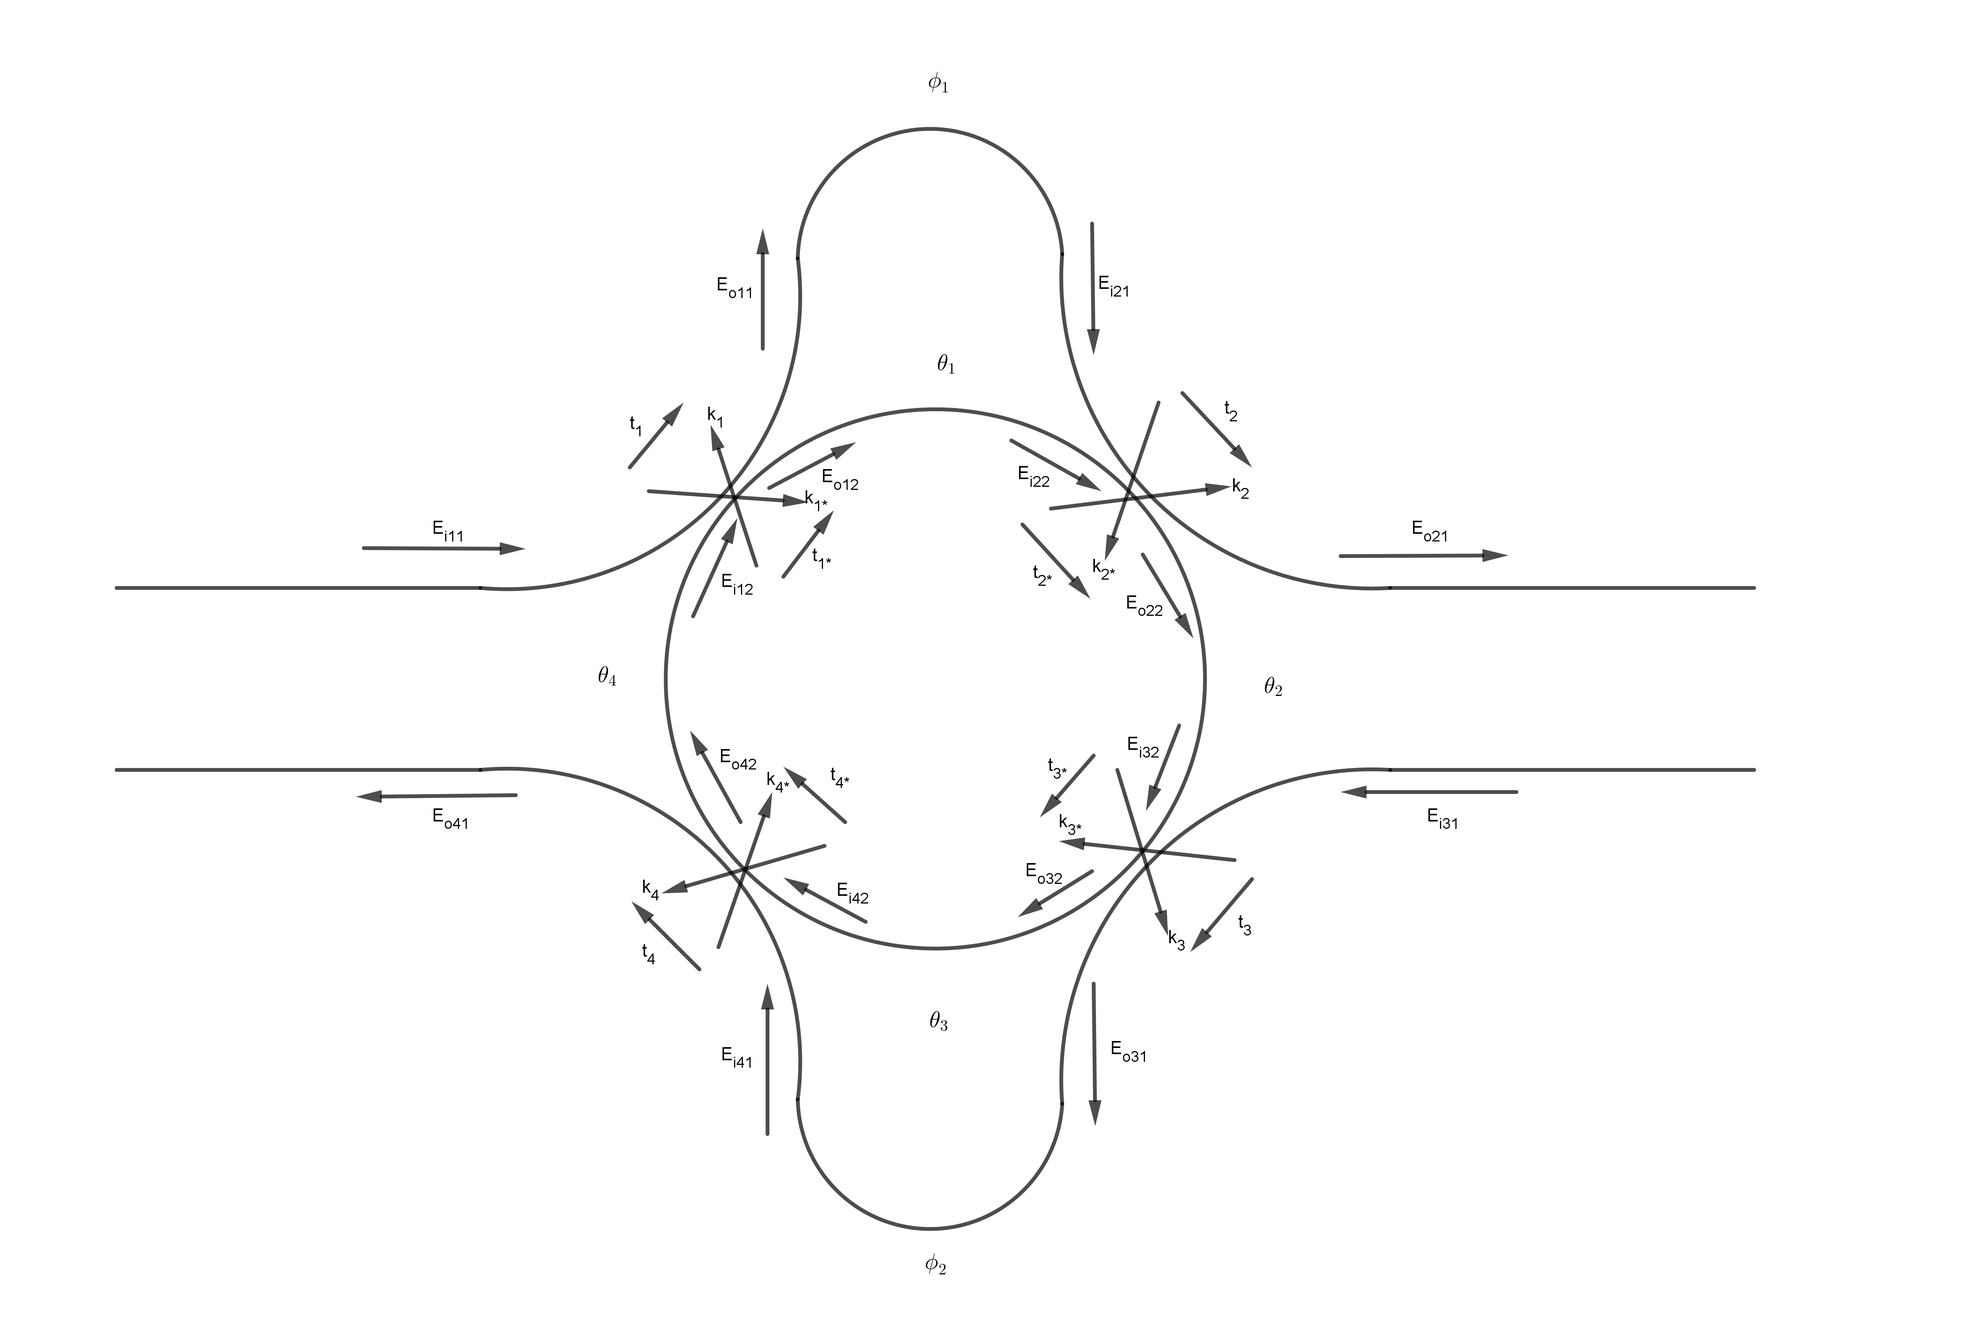
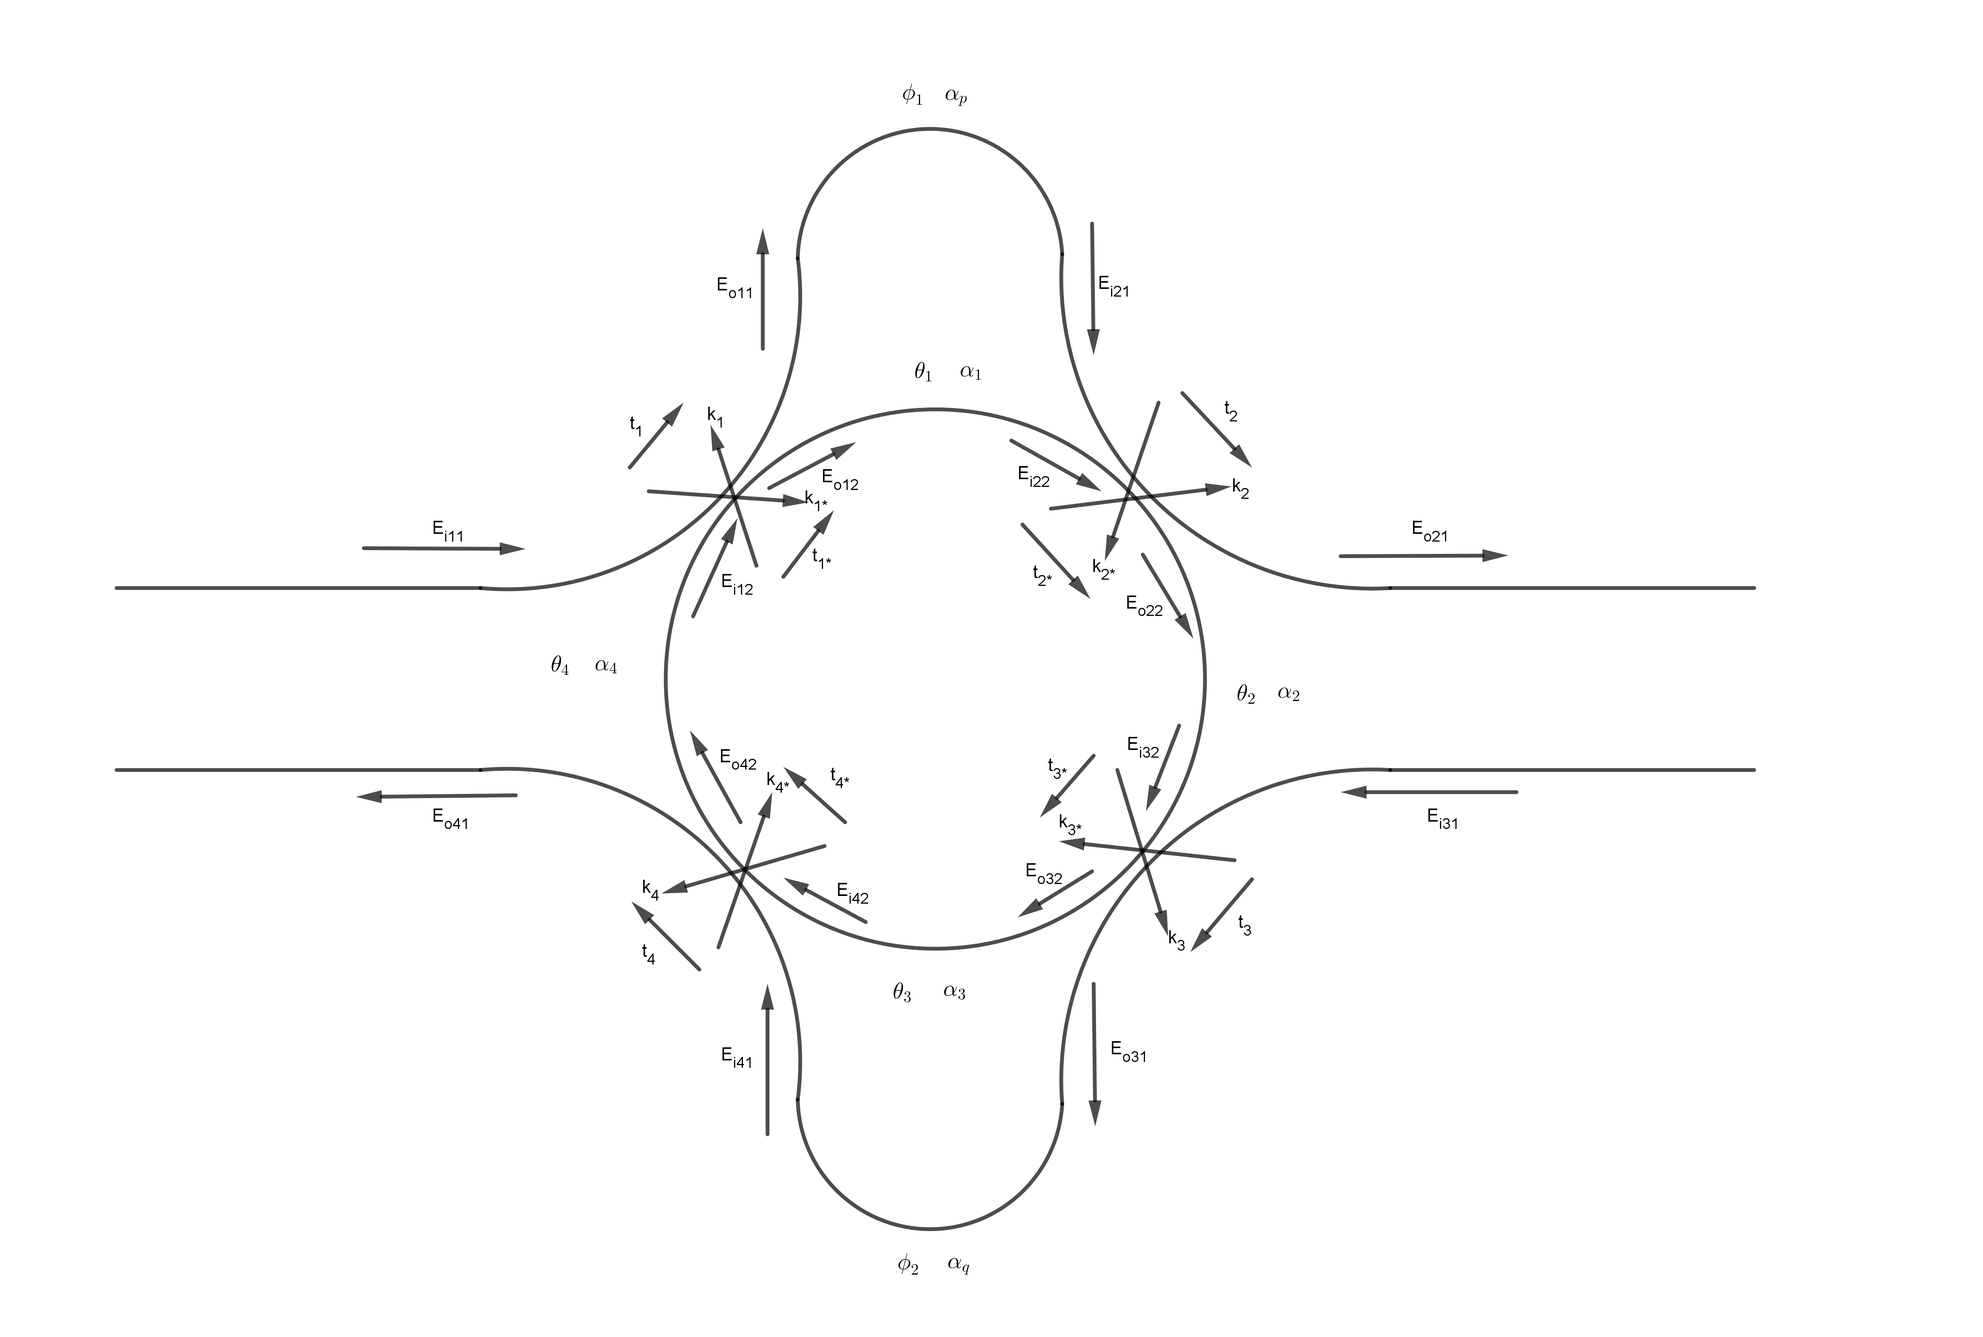
Update

diff --git a/_posts/2020-09-24-Wavelength- and Bandwidth-tunable Microring.md b/_posts/2020-09-24-Wavelength- and Bandwidth-tunable Microring.md
@@ -34,17 +34,17 @@ author: Zhenyu ZHAO
 
 ### Transition Equations
 
-<center><img src="http://latex.codecogs.com/gif.latex? E_{i22} = E_{o12}*e^ {i\theta_1} "/> <p align="right"> (9) </p> </center>
+<center><img src="http://latex.codecogs.com/gif.latex? E_{i22} = E_{o12}*\alpha_1*e^ {i\theta_1} "/> <p align="right"> (9) </p> </center>
 
-<center><img src="http://latex.codecogs.com/gif.latex? E_{i32}=E_{o22}*e^{i\theta_2} "/> <p align="right"> (10) </p> </center>
+<center><img src="http://latex.codecogs.com/gif.latex? E_{i32}=E_{o22}*\alpha_2*e^{i\theta_2} "/> <p align="right"> (10) </p> </center>
 
-<center><img src="http://latex.codecogs.com/gif.latex? E_{i42}=E_{o32}*e^{i\theta_3} "/> <p align="right"> (11) </p> </center>
+<center><img src="http://latex.codecogs.com/gif.latex? E_{i42}=E_{o32}*\alpha_3*e^{i\theta_3} "/> <p align="right"> (11) </p> </center>
 
-<center><img src="http://latex.codecogs.com/gif.latex? E_{i12} = E_{o42}*e^{i\theta_4} "/> <p align="right"> (12) </p> </center>
+<center><img src="http://latex.codecogs.com/gif.latex? E_{i12} = E_{o42}*\alpha_4*e^{i\theta_4} "/> <p align="right"> (12) </p> </center>
 
-<center><img src="http://latex.codecogs.com/gif.latex? E_{i21} = E_{o11}*e^{i\phi_1} "/> <p align="right"> (13) </p> </center>
+<center><img src="http://latex.codecogs.com/gif.latex? E_{i21} = E_{o11}*\alpha_p*e^{i\phi_1} "/> <p align="right"> (13) </p> </center>
 
-<center><img src="http://latex.codecogs.com/gif.latex? E_{i41}=E_{o31}*e^{i\phi_2} "/> <p align="right"> (14) </p> </center>
+<center><img src="http://latex.codecogs.com/gif.latex? E_{i41}=E_{o31}*\alpha_q*e^{i\phi_2} "/> <p align="right"> (14) </p> </center>
 
 
 ### Calculate Ei12
@@ -55,74 +55,76 @@ Assuming ：
 #### 1. Combine (2)(4)(9)(13)
 
 <center><img src="http://latex.codecogs.com/gif.latex? 
-E_{o22} = t_2^**(E_{o12}*e^ {i\theta_1})+k_2^* *(E_{o11}*e^{i\phi_1})\\
-= t_2^**((t_1^**E_{i12}+k_1^* *E_{i11})*e^ {i\theta_1})+k_2^* *((t_1 * E_{i11} + k_1*E_{i12})*e^{i\phi_1}) 
+E_{o22}=(t_2^**k_1^**\alpha_1 *e^ {i\theta_1}+ k_2^* *t_1*\alpha_p*e^{i\phi_1})*E_{i11} \\
++ (t_2^**t_1^**\alpha_1 *e^ {i\theta_1}+ k_2^* *k_1*\alpha_p*e^{i\phi_1})*E_{i12}
 "/> <p align="right"> (15) </p> </center>
 
 
 
 
+
 #### 2. Combine (6)(10)(15)
-<center><img src="http://latex.codecogs.com/gif.latex? E_{o32}=k_3^* *((t_2^**((t_1^**E_{i12}+k_1^* *E_{i11})*e^ {i\theta_1})\\+ k_2^* *((t_1 * E_{i11} + k_1*E_{i12})*e^{i\phi_1}))*e^{i\theta_2}) "/> <p align="right"> (16) </p> </center>
+<center><img src="http://latex.codecogs.com/gif.latex? E_{o32}=(t_3^**t_2^**k_1^**\alpha_1 *e^ {i\theta_1}*\alpha_2*e^{i\theta_2}+ t_3^**k_2^* *t_1*\alpha_p*e^{i\phi_1}*\alpha_2*e^{i\theta_2})*E_{i11} \\
++ (t_3^**t_2^**t_1^**\alpha_1 *e^ {i\theta_1}*\alpha_2*e^{i\theta_2}+ t_3^**k_2^* *k_1*\alpha_p*e^{i\phi_1}*\alpha_2*e^{i\theta_2})*E_{i12} "/> <p align="right"> (16) </p> </center>
 
 #### 3. Combine (5)(10)(15)
-<center><img src="http://latex.codecogs.com/gif.latex? E_{o31} =  k_3*((t_2^**((t_1^**E_{i12}+k_1^* *E_{i11})*e^ {i\theta_1})\\+  k_2^* *((t_1 * E_{i11} + k_1*E_{i12})*e^{i\phi_1}))*e^{i\theta_2})"/> <p align="right"> (17) </p> </center>
+<center><img src="http://latex.codecogs.com/gif.latex? E_{o31} = (k_3*t_2^**k_1^**\alpha_1 *e^ {i\theta_1}*\alpha_2*e^{i\theta_2}+ k_3*k_2^* *t_1*\alpha_p*e^{i\phi_1}*\alpha_2*e^{i\theta_2})*E_{i11}\\
++ (k_3*t_2^**t_1^**\alpha_1 *e^ {i\theta_1}*\alpha_2*e^{i\theta_2}+ k_3*k_2^* *k_1*\alpha_p*e^{i\phi_1}*\alpha_2*e^{i\theta_2})*E_{i12}"/> <p align="right"> (17) </p> </center>
 
 
 #### 4. Combine (8)(11)(14)(16)(17)
-<center><img src="http://latex.codecogs.com/gif.latex?E_{o42} = t_4^**((k_3^* *((t_2^**((t_1^**E_{i12}+k_1^* *E_{i11})*e^ {i\theta_1})\\+k_2^* *((t_1 * E_{i11} + k_1*E_{i12})*e^{i\phi_1}))*e^{i\theta_2}))*e^{i\theta_3})\\+k_4^* *((k_3*((t_2^**((t_1^**E_{i12}+k_1^* *E_{i11})*e^ {i\theta_1})\\+k_2^* *((t_1 * E_{i11} + k_1*E_{i12})*e^{i\phi_1}))*e^{i\theta_2}))*e^{i\phi_2})"/> <p align="right"> (18) </p> </center>
+<center><img src="http://latex.codecogs.com/gif.latex? E_{o42}=(t_4^**t_3^**t_2^**k_1^**\alpha_1 *e^ {i\theta_1}*\alpha_2*e^{i\theta_2}*\alpha_3*e^{i\theta_3} \\
++ t_4^**t_3^**k_2^* *t_1*\alpha_p*e^{i\phi_1}*\alpha_2*e^{i\theta_2}*\alpha_3*e^{i\theta_3} \\
++ k_4^* *k_3*t_2^**k_1^**\alpha_1 *e^ {i\theta_1}*\alpha_2*e^{i\theta_2}*\alpha_q*e^{i\phi_2} \\
++ k_4^* *k_3*k_2^* *t_1*\alpha_p*e^{i\phi_1}*\alpha_2*e^{i\theta_2}*\alpha_q*e^{i\phi_2})*E_{i11} \\
++ (t_4^**t_3^**t_2^**t_1^**\alpha_1 *e^ {i\theta_1}*\alpha_2*e^{i\theta_2}*\alpha_3*e^{i\theta_3} \\
++ t_4^**t_3^**k_2^* *k_1*\alpha_p*e^{i\phi_1}*\alpha_2*e^{i\theta_2}*\alpha_3*e^{i\theta_3} \\
++k_4^* *k_3*t_2^**t_1^**\alpha_1 *e^ {i\theta_1}*\alpha_2*e^{i\theta_2}*\alpha_q*e^{i\phi_2} \\
++ k_4^* *k_3*k_2^* *k_1*\alpha_p*e^{i\phi_1}*\alpha_2*e^{i\theta_2}*\alpha_q*e^{i\phi_2})*E_{i12}"/> <p align="right"> (18) </p> </center>
+
 
 
 #### 5. Combine (12)(18)
-<center><img src="http://latex.codecogs.com/gif.latex? E_{i12} = (t_4^**((k_3^* *((t_2^**((t_1^**E_{i12}+k_1^* *E_{i11})*e^ {i\theta_1})\\+k_2^* *((t_1 * E_{i11} + k_1*E_{i12})*e^{i\phi_1}))*e^{i\theta_2}))*e^{i\theta_3})\\+k_4^* *((k_3*((t_2^**((t_1^**E_{i12}+k_1^* *E_{i11})*e^ {i\theta_1})\\+k_2^* *((t_1 * E_{i11} + k_1*E_{i12})*e^{i\phi_1}))*e^{i\theta_2}))*e^{i\phi_2}))*e^{i\theta_4} "/> <p align="right"> (19) </p> </center>
+<center><img src="http://latex.codecogs.com/gif.latex? E_{i12} = (t_4^**t_3^**t_2^**k_1^**\alpha_1 *e^ {i\theta_1}*\alpha_2*e^{i\theta_2}*\alpha_3*e^{i\theta_3}*\alpha_4*e^{i\theta_4} \\
++ t_4^**t_3^**k_2^* *t_1*\alpha_p*e^{i\phi_1}*\alpha_2*e^{i\theta_2}*\alpha_3*e^{i\theta_3}*\alpha_4*e^{i\theta_4} \\
++ k_4^* *k_3*t_2^**k_1^**\alpha_1 *e^ {i\theta_1}*\alpha_2*e^{i\theta_2}*\alpha_q*e^{i\phi_2}*\alpha_4*e^{i\theta_4} \\
++ k_4^* *k_3*k_2^* *t_1*\alpha_p*e^{i\phi_1}*\alpha_2*e^{i\theta_2}*\alpha_q*e^{i\phi_2}*\alpha_4*e^{i\theta_4})*E_{i11} \\
++ (t_4^**t_3^**t_2^**t_1^**\alpha_1 *e^ {i\theta_1}*\alpha_2*e^{i\theta_2}*\alpha_3*e^{i\theta_3}*\alpha_4*e^{i\theta_4} \\
++ t_4^**t_3^**k_2^* *k_1*\alpha_p*e^{i\phi_1}*\alpha_2*e^{i\theta_2}*\alpha_3*e^{i\theta_3}*\alpha_4*e^{i\theta_4} \\
++k_4^* *k_3*t_2^**t_1^**\alpha_1 *e^ {i\theta_1}*\alpha_2*e^{i\theta_2}*\alpha_q*e^{i\phi_2}*\alpha_4*e^{i\theta_4} \\
++ k_4^* *k_3*k_2^* *k_1*\alpha_p*e^{i\phi_1}*\alpha_2*e^{i\theta_2}*\alpha_q*e^{i\phi_2}*\alpha_4*e^{i\theta_4})*E_{i12} "/> <p align="right"> (19) </p> </center>
+
 
 
 ### Calculate Eo11 with Ei11
 
 #### 1. Solve Equation(19)
-<center><img src="http://latex.codecogs.com/gif.latex? E_{i12} = t_4^**k_3^* *t_2^**t_1^**E_{i12}*e^ {i\theta_1}*e^{i\theta_2}*e^{i\theta_3}*e^{i\theta_4}
-+t_4^**k_3^* *t_2^**k_1^* *E_{i11}*e^ {i\theta_1}*e^{i\theta_2}*e^{i\theta_3}*e^{i\theta_4} \\
-+t_4^**k_3^* *k_2^* *t_1 * E_{i11}*e^{i\phi_1}*e^{i\theta_2}*e^{i\theta_3}*e^{i\theta_4} 
-+t_4^**k_3^* *k_2^* *k_1*E_{i12}*e^{i\phi_1}*e^{i\theta_2}*e^{i\theta_3}*e^{i\theta_4}\\
-+k_4^* *k_3*t_2^**t_1^**E_{i12}*e^ {i\theta_1}*e^{i\theta_2}*e^{i\phi_2}*e^{i\theta_4}
-+k_4^* *k_3*t_2^**k_1^* *E_{i11}*e^ {i\theta_1}*e^{i\theta_2}*e^{i\phi_2}*e^{i\theta_4}\\
-+k_4^* *k_3*k_2^* *t_1 * E_{i11}*e^{i\phi_1}*e^{i\theta_2}*e^{i\phi_2}*e^{i\theta_4} 
-+k_4^* *k_3*k_2^* *k_1*E_{i12}*e^{i\phi_1}*e^{i\theta_2}*e^{i\phi_2}*e^{i\theta_4} "/> <p align="right"> (20) </p> </center>
+<center><img src="http://latex.codecogs.com/gif.latex? \frac{E_{i12}}{E_{i11}} = \frac{t_4^**t_3^**t_2^**k_1^**\alpha_1 *e^ {i\theta_1}*\alpha_2*e^{i\theta_2}*\alpha_3*e^{i\theta_3}*\alpha_4*e^{i\theta_4} 
++ t_4^**t_3^**k_2^* *t_1*\alpha_p*e^{i\phi_1}*\alpha_2*e^{i\theta_2}*\alpha_3*e^{i\theta_3}*\alpha_4*e^{i\theta_4} \\
++ k_4^* *k_3*t_2^**k_1^**\alpha_1 *e^ {i\theta_1}*\alpha_2*e^{i\theta_2}*\alpha_q*e^{i\phi_2}*\alpha_4*e^{i\theta_4} 
++ k_4^* *k_3*k_2^* *t_1*\alpha_p*e^{i\phi_1}*\alpha_2*e^{i\theta_2}*\alpha_q*e^{i\phi_2}*\alpha_4*e^{i\theta_4}}{1-t_4^**t_3^**t_2^**t_1^**\alpha_1 *e^ {i\theta_1}*\alpha_2*e^{i\theta_2}*\alpha_3*e^{i\theta_3}*\alpha_4*e^{i\theta_4} 
+- t_4^**t_3^**k_2^* *k_1*\alpha_p*e^{i\phi_1}*\alpha_2*e^{i\theta_2}*\alpha_3*e^{i\theta_3}*\alpha_4*e^{i\theta_4} \\
+- k_4^* *k_3*t_2^**t_1^**\alpha_1 *e^ {i\theta_1}*\alpha_2*e^{i\theta_2}*\alpha_q*e^{i\phi_2}*\alpha_4*e^{i\theta_4} 
+- k_4^* *k_3*k_2^* *k_1*\alpha_p*e^{i\phi_1}*\alpha_2*e^{i\theta_2}*\alpha_q*e^{i\phi_2}*\alpha_4*e^{i\theta_4}} "/> <p align="right"> (20) </p> </center>
 
-<center><img src="http://latex.codecogs.com/gif.latex?(1-t_4^**k_3^* *t_2^**t_1^**e^ {i\theta_1}*e^{i\theta_2}*e^{i\theta_3}*e^{i\theta_4} 
-- t_4^**k_3^* *k_2^* *k_1*e^{i\phi_1}*e^{i\theta_2}*e^{i\theta_3}*e^{i\theta_4} \\
-- k_4^* *k_3*t_2^**t_1^**e^ {i\theta_1}*e^{i\theta_2}*e^{i\phi_2}*e^{i\theta_4}
-- k_4^* *k_3*k_2^* *k_1*e^{i\phi_1}*e^{i\theta_2}*e^{i\phi_2}*e^{i\theta_4})*E_{i12} \\
-= (t_4^**k_3^* *t_2^**k_1^* *e^ {i\theta_1}*e^{i\theta_2}*e^{i\theta_3}*e^{i\theta_4} 
-+ t_4^**k_3^* *k_2^* *t_1 *e^{i\phi_1}*e^{i\theta_2}*e^{i\theta_3}*e^{i\theta_4} \\
-+ k_4^* *k_3*t_2^**k_1^* *e^ {i\theta_1}*e^{i\theta_2}*e^{i\phi_2}*e^{i\theta_4}
-+ k_4^* *k_3*k_2^* *t_1 *e^{i\phi_1}*e^{i\theta_2}*e^{i\phi_2}*e^{i\theta_4})*E_{i11}"/> <p align="right"> (21) </p> </center>
-
-
-
-<center><img src="http://latex.codecogs.com/gif.latex?\frac{E_{i12}}{E_{i11}} = \frac{t_4^**k_3^* *t_2^**k_1^* *e^ {i\theta_1}*e^{i\theta_2}*e^{i\theta_3}*e^{i\theta_4} 
-+ t_4^**k_3^* *k_2^* *t_1 *e^{i\phi_1}*e^{i\theta_2}*e^{i\theta_3}*e^{i\theta_4} \\
-+ k_4^* *k_3*t_2^**k_1^* *e^ {i\theta_1}*e^{i\theta_2}*e^{i\phi_2}*e^{i\theta_4}
-+ k_4^* *k_3*k_2^* *t_1 *e^{i\phi_1}*e^{i\theta_2}*e^{i\phi_2}*e^{i\theta_4}}{1-t_4^**k_3^* *t_2^**t_1^**e^ {i\theta_1}*e^{i\theta_2}*e^{i\theta_3}*e^{i\theta_4} 
-- t_4^**k_3^* *k_2^* *k_1*e^{i\phi_1}*e^{i\theta_2}*e^{i\theta_3}*e^{i\theta_4} \\
-- k_4^* *k_3*t_2^**t_1^**e^ {i\theta_1}*e^{i\theta_2}*e^{i\phi_2}*e^{i\theta_4}
-- k_4^* *k_3*k_2^* *k_1*e^{i\phi_1}*e^{i\theta_2}*e^{i\phi_2}*e^{i\theta_4}}"/> <p align="right"> (22) </p> </center>
 
 
 ### Calculate Eo21 with Ei11
 
 #### 1. Combine Equation(1)(2)(3)(9)(13)
-<center><img src="http://latex.codecogs.com/gif.latex? E_{o21} = (t_2 * t_1 *e^{i\phi_1}+k_2*k_1^* *e^ {i\theta_1})*E_{i11} + (t_2 * k_1*e^{i\phi_1} + k_2*t_1^**e^ {i\theta_1})*E_{i12}"/> <p align="right"> (23) </p> </center>
+<center><img src="http://latex.codecogs.com/gif.latex? E_{o21}  = (t_2 *t_1 *\alpha_p*e^{i\phi_1} +k_2*k_1^* *\alpha_1*e^ {i\theta_1})* E_{i11} \\ + (t_2 *k_1*\alpha_p*e^{i\phi_1}+k_2*t_1^**\alpha_1*e^ {i\theta_1})*E_{i12}"/> <p align="right"> (21) </p> </center>
 
 
-#### 2. Combine Equation(22)(23)
-<center><img src="http://latex.codecogs.com/gif.latex?E_{o21} = (t_2 * t_1 *e^{i\phi_1}+k_2*k_1^* *e^ {i\theta_1})*E_{i11} + (t_2 * k_1*e^{i\phi_1} + k_2*t_1^**e^ {i\theta_1})*\frac{t_4^**k_3^* *t_2^**k_1^* *e^ {i\theta_1}*e^{i\theta_2}*e^{i\theta_3}*e^{i\theta_4} 
-+ t_4^**k_3^* *k_2^* *t_1 *e^{i\phi_1}*e^{i\theta_2}*e^{i\theta_3}*e^{i\theta_4} \\
-+ k_4^* *k_3*t_2^**k_1^* *e^ {i\theta_1}*e^{i\theta_2}*e^{i\phi_2}*e^{i\theta_4}
-+ k_4^* *k_3*k_2^* *t_1 *e^{i\phi_1}*e^{i\theta_2}*e^{i\phi_2}*e^{i\theta_4}}{1-t_4^**k_3^* *t_2^**t_1^**e^ {i\theta_1}*e^{i\theta_2}*e^{i\theta_3}*e^{i\theta_4} 
-- t_4^**k_3^* *k_2^* *k_1*e^{i\phi_1}*e^{i\theta_2}*e^{i\theta_3}*e^{i\theta_4} \\
-- k_4^* *k_3*t_2^**t_1^**e^ {i\theta_1}*e^{i\theta_2}*e^{i\phi_2}*e^{i\theta_4}
-- k_4^* *k_3*k_2^* *k_1*e^{i\phi_1}*e^{i\theta_2}*e^{i\phi_2}*e^{i\theta_4}}*E_{i11}"/> </center>
+#### 2. Combine Equation(20)(21)
+<center><img src="http://latex.codecogs.com/gif.latex?  E_{o21}  = (t_2 *t_1 *\alpha_p*e^{i\phi_1} +k_2*k_1^* *\alpha_1*e^ {i\theta_1})* E_{i11}+ (t_2 *k_1*\alpha_p*e^{i\phi_1}+k_2*t_1^**\alpha_1*e^ {i\theta_1})*E_{i11}*"/> </center>
+
+<center><img src="http://latex.codecogs.com/gif.latex? \frac{t_4^**t_3^**t_2^**k_1^**\alpha_1 *e^ {i\theta_1}*\alpha_2*e^{i\theta_2}*\alpha_3*e^{i\theta_3}*\alpha_4*e^{i\theta_4} 
++ t_4^**t_3^**k_2^* *t_1*\alpha_p*e^{i\phi_1}*\alpha_2*e^{i\theta_2}*\alpha_3*e^{i\theta_3}*\alpha_4*e^{i\theta_4} \\
++ k_4^* *k_3*t_2^**k_1^**\alpha_1 *e^ {i\theta_1}*\alpha_2*e^{i\theta_2}*\alpha_q*e^{i\phi_2}*\alpha_4*e^{i\theta_4} 
++ k_4^* *k_3*k_2^* *t_1*\alpha_p*e^{i\phi_1}*\alpha_2*e^{i\theta_2}*\alpha_q*e^{i\phi_2}*\alpha_4*e^{i\theta_4}}{1-t_4^**t_3^**t_2^**t_1^**\alpha_1 *e^ {i\theta_1}*\alpha_2*e^{i\theta_2}*\alpha_3*e^{i\theta_3}*\alpha_4*e^{i\theta_4} 
+- t_4^**t_3^**k_2^* *k_1*\alpha_p*e^{i\phi_1}*\alpha_2*e^{i\theta_2}*\alpha_3*e^{i\theta_3}*\alpha_4*e^{i\theta_4} \\
+- k_4^* *k_3*t_2^**t_1^**\alpha_1 *e^ {i\theta_1}*\alpha_2*e^{i\theta_2}*\alpha_q*e^{i\phi_2}*\alpha_4*e^{i\theta_4} 
+- k_4^* *k_3*k_2^* *k_1*\alpha_p*e^{i\phi_1}*\alpha_2*e^{i\theta_2}*\alpha_q*e^{i\phi_2}*\alpha_4*e^{i\theta_4}}"/> </center>
 
 
 
@@ -131,49 +133,35 @@ E_{o22} = t_2^**(E_{o12}*e^ {i\theta_1})+k_2^* *(E_{o11}*e^{i\phi_1})\\
 
 ### Calculate Eo41 with Ei11
 
-#### 1.Combine Equation(7)(11)(14)(16)(17)(19)
-<center><img src="http://latex.codecogs.com/gif.latex? E_{o41} =  t_4 *k_3*t_2^**t_1^**E_{i12}*e^ {i\theta_1}*e^{i\theta_2}*e^{i\phi_2}
-+t_4 *k_3*t_2^**k_1^* *E_{i11}*e^ {i\theta_1}*e^{i\theta_2}*e^{i\phi_2}\\
-+t_4 *k_3*k_2^* *t_1 * E_{i11}*e^{i\phi_1}*e^{i\theta_2}*e^{i\phi_2} 
-+t_4 *k_3*k_2^* *k_1*E_{i12}*e^{i\phi_1}*e^{i\theta_2}*e^{i\phi_2} \\
-+k_4*k_3^* *t_2^**t_1^**E_{i12}*e^ {i\theta_1}*e^{i\theta_2}*e^{i\theta_3}
-+k_4*k_3^* *t_2^**k_1^* *E_{i11}*e^ {i\theta_1}*e^{i\theta_2}*e^{i\theta_3}\\
-+k_4*k_3^* *k_2^* *t_1 * E_{i11}*e^{i\phi_1}*e^{i\theta_2}*e^{i\theta_3} 
-+k_4*k_3^* *k_2^* *k_1*E_{i12}*e^{i\phi_1}*e^{i\theta_2}*e^{i\theta_3} "/> <p align="right"> (24) </p> </center>
-
-<center><img src="http://latex.codecogs.com/gif.latex?E_{o41} = (t_4 *k_3*t_2^**k_1^* *e^ {i\theta_1}*e^{i\theta_2}*e^{i\phi_2} 
-+ t_4 *k_3*k_2^* *t_1 *e^{i\phi_1}*e^{i\theta_2}*e^{i\phi_2} \\
-+ k_4*k_3^* *t_2^**k_1^* *e^ {i\theta_1}*e^{i\theta_2}*e^{i\theta_3} 
-+ k_4*k_3^* *k_2^* *t_1 *e^{i\phi_1}*e^{i\theta_2}*e^{i\theta_3})*E_{i11} \\
-+ (t_4 *k_3*t_2^**t_1^**e^ {i\theta_1}*e^{i\theta_2}*e^{i\phi_2}
-+ t_4 *k_3*k_2^* *k_1*e^{i\phi_1}*e^{i\theta_2}*e^{i\phi_2}\\
-+ k_4*k_3^* *t_2^**t_1^**e^ {i\theta_1}*e^{i\theta_2}*e^{i\theta_3}
-+ k_4*k_3^* *k_2^* *k_1*e^{i\phi_1}*e^{i\theta_2}*e^{i\theta_3})*E_{i12}"/> <p align="right"> (25) </p> </center>
+#### 1.Combine Equation(7)(11)(14)(16)(17)
+<center><img src="http://latex.codecogs.com/gif.latex? E_{o41} = (t_4 *k_3*t_2^**k_1^**\alpha_1 *e^ {i\theta_1}*\alpha_2*e^{i\theta_2}*\alpha_q*e^{i\phi_2}\\
++ t_4 *k_3*k_2^* *t_1*\alpha_p*e^{i\phi_1}*\alpha_2*e^{i\theta_2}*\alpha_q*e^{i\phi_2} \\
++ k_4*t_3^**t_2^**k_1^**\alpha_1 *e^ {i\theta_1}*\alpha_2*e^{i\theta_2}*\alpha_3*e^{i\theta_3}\\
++ k_4*t_3^**k_2^* *t_1*\alpha_p*e^{i\phi_1}*\alpha_2*e^{i\theta_2}*\alpha_3*e^{i\theta_3})*E_{i11}\\
++ (t_4 *k_3*t_2^**t_1^**\alpha_1 *e^ {i\theta_1}*\alpha_2*e^{i\theta_2}*\alpha_q*e^{i\phi_2}\\
++ t_4 *k_3*k_2^* *k_1*\alpha_p*e^{i\phi_1}*\alpha_2*e^{i\theta_2}*\alpha_q*e^{i\phi_2} \\
++ k_4*t_3^**t_2^**t_1^**\alpha_1 *e^ {i\theta_1}*\alpha_2*e^{i\theta_2}*\alpha_3*e^{i\theta_3} \\
++ k_4*t_3^**k_2^* *k_1*\alpha_p*e^{i\phi_1}*\alpha_2*e^{i\theta_2}*\alpha_3*e^{i\theta_3})*E_{i12} "/> <p align="right"> (22) </p> </center>
 
 
-#### 2. Combine Equation(22)(24)
-<center><img src="http://latex.codecogs.com/gif.latex? E_{o41} = (t_4 *k_3*t_2^**k_1^* *e^ {i\theta_1}*e^{i\theta_2}*e^{i\phi_2} 
-+ t_4 *k_3*k_2^* *t_1 *e^{i\phi_1}*e^{i\theta_2}*e^{i\phi_2} \\
-\ \\ 
-+ k_4*k_3^* *t_2^**k_1^* *e^ {i\theta_1}*e^{i\theta_2}*e^{i\theta_3} 
-+ k_4*k_3^* *k_2^* *t_1 *e^{i\phi_1}*e^{i\theta_2}*e^{i\theta_3})*E_{i11} \\
-\ \\ 
-+ (t_4 *k_3*t_2^**t_1^**e^ {i\theta_1}*e^{i\theta_2}*e^{i\phi_2}
-+ t_4 *k_3*k_2^* *k_1*e^{i\phi_1}*e^{i\theta_2}*e^{i\phi_2}\\
-\ \\ 
-+ k_4*k_3^* *t_2^**t_1^**e^ {i\theta_1}*e^{i\theta_2}*e^{i\theta_3}
-+ k_4*k_3^* *k_2^* *k_1*e^{i\phi_1}*e^{i\theta_2}*e^{i\theta_3}) \\
-\ \\ 
+
+#### 2. Combine Equation(20)(22)
+<center><img src="http://latex.codecogs.com/gif.latex? E_{o41} = (t_4 *k_3*t_2^**k_1^**\alpha_1 *e^ {i\theta_1}*\alpha_2*e^{i\theta_2}*\alpha_q*e^{i\phi_2}\\
++ t_4 *k_3*k_2^* *t_1*\alpha_p*e^{i\phi_1}*\alpha_2*e^{i\theta_2}*\alpha_q*e^{i\phi_2} \\
++ k_4*t_3^**t_2^**k_1^**\alpha_1 *e^ {i\theta_1}*\alpha_2*e^{i\theta_2}*\alpha_3*e^{i\theta_3}\\
++ k_4*t_3^**k_2^* *t_1*\alpha_p*e^{i\phi_1}*\alpha_2*e^{i\theta_2}*\alpha_3*e^{i\theta_3})*E_{i11}\\
++ (t_4 *k_3*t_2^**t_1^**\alpha_1 *e^ {i\theta_1}*\alpha_2*e^{i\theta_2}*\alpha_q*e^{i\phi_2}\\
++ t_4 *k_3*k_2^* *k_1*\alpha_p*e^{i\phi_1}*\alpha_2*e^{i\theta_2}*\alpha_q*e^{i\phi_2} \\
++ k_4*t_3^**t_2^**t_1^**\alpha_1 *e^ {i\theta_1}*\alpha_2*e^{i\theta_2}*\alpha_3*e^{i\theta_3} \\
++ k_4*t_3^**k_2^* *k_1*\alpha_p*e^{i\phi_1}*\alpha_2*e^{i\theta_2}*\alpha_3*e^{i\theta_3}) *E_{i11}*
 "/> </center>
-<center><img src="http://latex.codecogs.com/gif.latex? 
-*\frac{t_4^**k_3^* *t_2^**k_1^* *e^ {i\theta_1}*e^{i\theta_2}*e^{i\theta_3}*e^{i\theta_4} 
-+ t_4^**k_3^* *k_2^* *t_1 *e^{i\phi_1}*e^{i\theta_2}*e^{i\theta_3}*e^{i\theta_4} 
-+ k_4^* *k_3*t_2^**k_1^* *e^ {i\theta_1}*e^{i\theta_2}*e^{i\phi_2}*e^{i\theta_4}
-+ k_4^* *k_3*k_2^* *t_1 *e^{i\phi_1}*e^{i\theta_2}*e^{i\phi_2}*e^{i\theta_4}}{1-t_4^**k_3^* *t_2^**t_1^**e^ {i\theta_1}*e^{i\theta_2}*e^{i\theta_3}*e^{i\theta_4} 
-- t_4^**k_3^* *k_2^* *k_1*e^{i\phi_1}*e^{i\theta_2}*e^{i\theta_3}*e^{i\theta_4} 
-- k_4^* *k_3*t_2^**t_1^**e^ {i\theta_1}*e^{i\theta_2}*e^{i\phi_2}*e^{i\theta_4}
-- k_4^* *k_3*k_2^* *k_1*e^{i\phi_1}*e^{i\theta_2}*e^{i\phi_2}*e^{i\theta_4}}*E_{i11}"/></center>
-
-
+<center><img src="http://latex.codecogs.com/gif.latex? \frac{t_4^**t_3^**t_2^**k_1^**\alpha_1 *e^ {i\theta_1}*\alpha_2*e^{i\theta_2}*\alpha_3*e^{i\theta_3}*\alpha_4*e^{i\theta_4} 
++ t_4^**t_3^**k_2^* *t_1*\alpha_p*e^{i\phi_1}*\alpha_2*e^{i\theta_2}*\alpha_3*e^{i\theta_3}*\alpha_4*e^{i\theta_4} \\
++ k_4^* *k_3*t_2^**k_1^**\alpha_1 *e^ {i\theta_1}*\alpha_2*e^{i\theta_2}*\alpha_q*e^{i\phi_2}*\alpha_4*e^{i\theta_4} 
++ k_4^* *k_3*k_2^* *t_1*\alpha_p*e^{i\phi_1}*\alpha_2*e^{i\theta_2}*\alpha_q*e^{i\phi_2}*\alpha_4*e^{i\theta_4}}{1-t_4^**t_3^**t_2^**t_1^**\alpha_1 *e^ {i\theta_1}*\alpha_2*e^{i\theta_2}*\alpha_3*e^{i\theta_3}*\alpha_4*e^{i\theta_4} 
+- t_4^**t_3^**k_2^* *k_1*\alpha_p*e^{i\phi_1}*\alpha_2*e^{i\theta_2}*\alpha_3*e^{i\theta_3}*\alpha_4*e^{i\theta_4} \\
+- k_4^* *k_3*t_2^**t_1^**\alpha_1 *e^ {i\theta_1}*\alpha_2*e^{i\theta_2}*\alpha_q*e^{i\phi_2}*\alpha_4*e^{i\theta_4} 
+- k_4^* *k_3*k_2^* *k_1*\alpha_p*e^{i\phi_1}*\alpha_2*e^{i\theta_2}*\alpha_q*e^{i\phi_2}*\alpha_4*e^{i\theta_4}}
+"/> </center>
 
 
